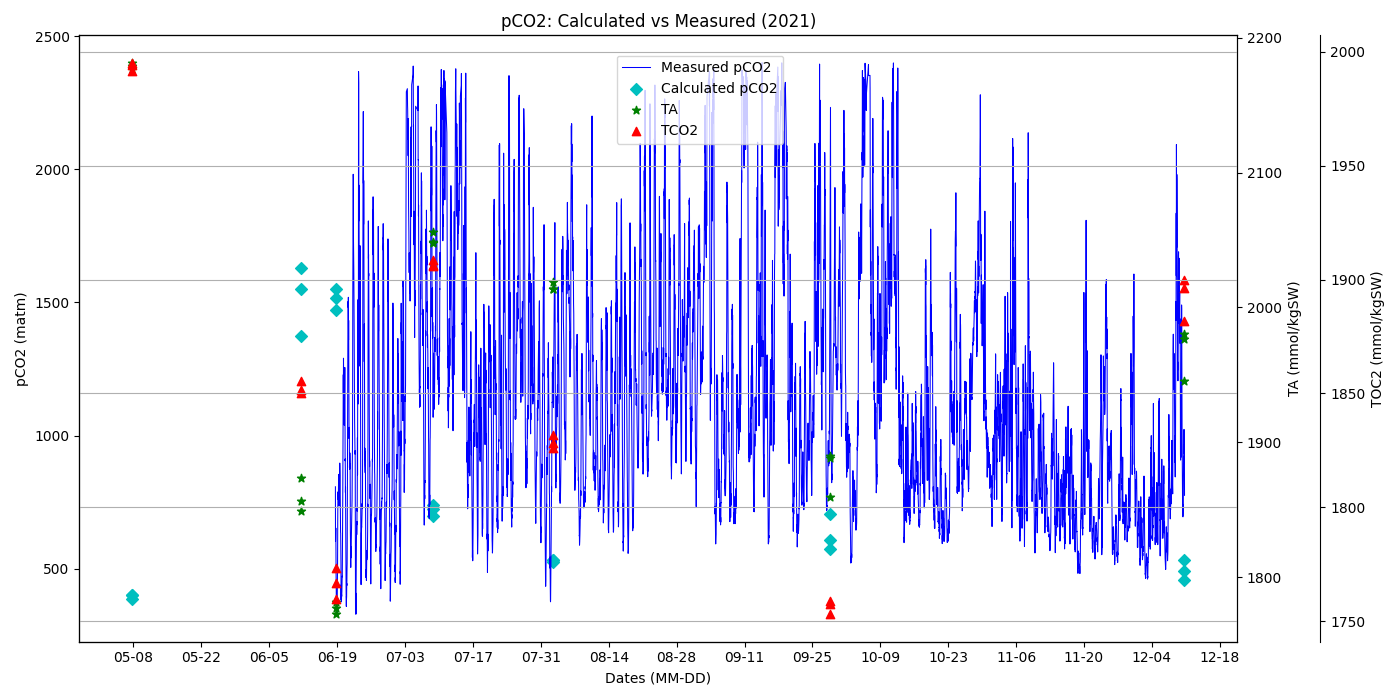
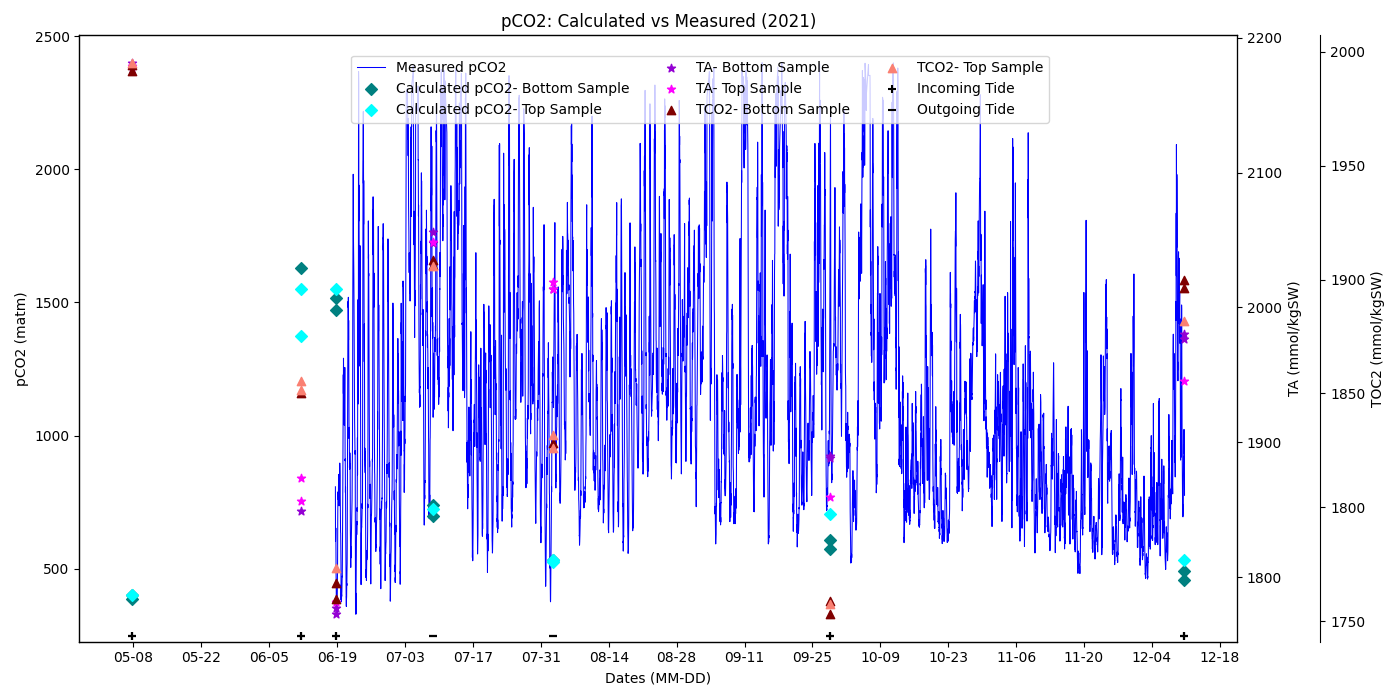
fixed tide info and bottle location on graph

diff --git a/DIC_TA_Grapher/pCO2/dic_ta_pco2_grapher_updated.py b/DIC_TA_Grapher/pCO2/dic_ta_pco2_grapher_updated.py
@@ -32,11 +32,11 @@ import pytz
 
 __location__ = os.path.realpath(os.path.join(os.getcwd(), os.path.dirname(__file__)))
 
-measured_pH_data_df = pd.read_csv("C:\\Users\\isabe\\source\\repos\\icyeung\\SAMI_Data_SeaGrant\\Graphing_Across_Years\\pH\\pH_Data_2021_Compiled_Monthly.csv")
+measured_pCO2_data_df = pd.read_csv("C:\\Users\\isabe\\source\\repos\\icyeung\\SAMI_Data_SeaGrant\\Graphing_Across_Years\\pCO2\\pco2_2021_Total_Data_Compiled_Monthly.csv")
 
 MWRA_data = pd.read_csv("C:\\Users\\isabe\\source\\repos\\icyeung\\SAMI_Data_SeaGrant\\MWRA\\MWRA_Data\\MWRA_TA_DIC_2017_to_2022_v20240330.csv")
 
-NOAA_data = pd.read_csv("C:\\Users\\isabe\\source\\repos\\icyeung\\SAMI_Data_SeaGrant\\DIC_TA_Grapher\\pH\\Tidal_Data\\NOAA_Tidal_HL_2021_Dennisport_GMT.csv", delimiter="\t")
+NOAA_data = pd.read_csv("C:\\Users\\isabe\\source\\repos\\icyeung\\SAMI_Data_SeaGrant\\DIC_TA_Grapher\\pCO2\\Tidal_Data\\NOAA_Tidal_HL_2021_Monument_Beach_GMT.csv", delimiter="\t")
 
 MWRA_trunc_df = pd.DataFrame()
 MWRA_trunc_df = pd.DataFrame(data=MWRA_trunc_df, columns=MWRA_data.columns)
@@ -175,14 +175,14 @@ print("another part done?")
 
 # pH 2021 data section is good
 # converts pH date to mm/dd format by dropping year
-measured_pH_data = measured_pH_data_df["pH"]
-pH_date = measured_pH_data_df["Date"]
-pH_date_revised = []
-for date in pH_date:
+measured_pCO2_data = measured_pCO2_data_df["CO2"]
+pCO2_date = measured_pCO2_data_df["Date"]
+pCO2_date_revised = []
+for date in pCO2_date:
     date_no_year = '{:%m-%d %H:%M:%S}'.format(dt.strptime(date, '%Y-%m-%d %H:%M:%S'))
     date_no_year = str(date_no_year)
     dt_date_no_year = dt.strptime(date_no_year, "%m-%d %H:%M:%S")
-    pH_date_revised.append(dt_date_no_year)
+    pCO2_date_revised.append(dt_date_no_year)
 
 
 
@@ -190,7 +190,7 @@ for date in pH_date:
 # Need to decipher MWRA data
 TA_data = MWRA_fitted_data["TA in (mmol/kgSW)"]
 DIC_data = MWRA_fitted_data["TCO2 in (mmol/kgSW)"]
-cal_pH_data = MWRA_fitted_data["pH out"]
+cal_pCO2_data = MWRA_fitted_data["pCO2 out (matm)"]
 MWRA_date = MWRA_fitted_data["PROF_DATE_TIME_LOCAL"]
 sample_name = MWRA_fitted_data["Station_D"]
 MWRA_date_revised = []
@@ -241,7 +241,7 @@ for date in revised_MWRA_list_GMT:
 # Goes through dataframe for each list and the index is used to obtain the cells for the columns
 # Graphs accordingly
 
-processed_MWRA_fitted_df = pd.DataFrame({"PROF_DATE_TIME_LOCAL": MWRA_date, "GMT_Time": MWRA_date_revised, "Station_D": sample_name, "pH out": cal_pH_data, "TA in (mmol/kgSW)": TA_data, "TCO2 in (mmol/kgSW)": DIC_data})
+processed_MWRA_fitted_df = pd.DataFrame({"PROF_DATE_TIME_LOCAL": MWRA_date, "GMT_Time": MWRA_date_revised, "Station_D": sample_name, "pCO2 out (matm)": cal_pCO2_data, "TA in (mmol/kgSW)": TA_data, "TCO2 in (mmol/kgSW)": DIC_data})
 
 print(processed_MWRA_fitted_df)
 
@@ -273,12 +273,12 @@ print("bottom water samples", bottom_df)
 print("top water samples", top_df)
 
 bottom_date_GMT = bottom_df["GMT_Time"]
-bottom_cal_pH_data = bottom_df["pH out"]
+bottom_cal_pCO2_data = bottom_df["pCO2 out (matm)"]
 bottom_TA_data = bottom_df["TA in (mmol/kgSW)"]
 bottom_DIC_data = bottom_df["TCO2 in (mmol/kgSW)"]
 
 top_date_GMT = top_df["GMT_Time"]
-top_cal_pH_data = top_df["pH out"]
+top_cal_pCO2_data = top_df["pCO2 out (matm)"]
 top_TA_data = top_df["TA in (mmol/kgSW)"]
 top_DIC_data = top_df["TCO2 in (mmol/kgSW)"]
 
@@ -367,9 +367,9 @@ print("out", outgoing_time_list)
 
 # Graphing
 fig, ax1 = plt.subplots(figsize=(14,7))
-p1 = ax1.plot(pH_date_revised, measured_pH_data, color = "b", linestyle = 'solid', label = 'Measured pH', linewidth=0.75)
-p4 = ax1.scatter(bottom_date_GMT, bottom_cal_pH_data, color = 'teal', marker = "D", label = "Calculated pH- Bottom Sample", zorder=3)
-p5 = ax1.scatter(top_date_GMT, top_cal_pH_data, color = 'cyan', marker = "D", label = "Calculated pH- Top Sample", zorder=3)
+p1 = ax1.plot(pCO2_date_revised, measured_pCO2_data, color = "b", linestyle = 'solid', label = 'Measured pCO2', linewidth=0.75)
+p4 = ax1.scatter(bottom_date_GMT, bottom_cal_pCO2_data, color = 'teal', marker = "D", label = "Calculated pCO2- Bottom Sample", zorder=3)
+p5 = ax1.scatter(top_date_GMT, top_cal_pCO2_data, color = 'cyan', marker = "D", label = "Calculated pCO2- Top Sample", zorder=3)
 # Sets x-axis as Dates
 date_form = DateFormatter("%m-%d")
 ax1.xaxis.set_major_formatter(date_form)
@@ -377,7 +377,7 @@ ax1.xaxis.set_major_locator(mdates.WeekdayLocator(interval = 2))     # Displays 
 #ax1.xaxis.set_major_locator(mdates.DayLocator(interval = 2))       # Indicates each day (without label) on x-axis
     
 # Sets axis labels and changes font color of "pco2" label for easy viewing
-ax1.set_ylabel("pH")
+ax1.set_ylabel("pCO2 (matm)")
 ax1.set_xlabel("Dates (MM-DD)")
 ax1.yaxis.label.set_color("k")
 #ax1.legend()  
@@ -413,12 +413,12 @@ plt.figlegend(handles, labels, loc='upper center')
 plt.grid(True)
 plt.tight_layout()
 plt.subplots_adjust(top=0.95)
-plt.title("pH: Calculated vs Measured (2021)", loc='center')
-fig.legend(loc = 'upper center', ncol = 2, borderaxespad=4)
+plt.title("pCO2: Calculated vs Measured (2021)", loc='center')
+fig.legend(loc = 'upper center', ncol = 3, borderaxespad=4)
 
 
 my_path = os.path.dirname(os.path.abspath(__file__))
 
 # Saves without outliers graph to specified name in folder
-plt.savefig(my_path + '\\ph_calculated_vs_measured_2021_Graph_No_Outliers.png')
+plt.savefig(my_path + '\\pco2_calculated_vs_measured_2021_Graph_No_Outliers.png')
 plt.show()

diff --git a/DIC_TA_Grapher/pCO2/dic_ta_pco2_grapher.py b/DIC_TA_Grapher/pCO2/dic_ta_pco2_grapher.py
@@ -229,5 +229,5 @@ plt.grid(True)
 my_path = os.path.dirname(os.path.abspath(__file__))
 
 # Saves without outliers graph to specified name in folder
-plt.savefig(my_path + '\\pCO2_calculated_vs_measured_2021_Graph_No_Outliers.png')
+plt.savefig(my_path + '\\pCO2_calculated_vs_measured_2021_Graph_No_Outliers_v1.png')
 plt.show()
